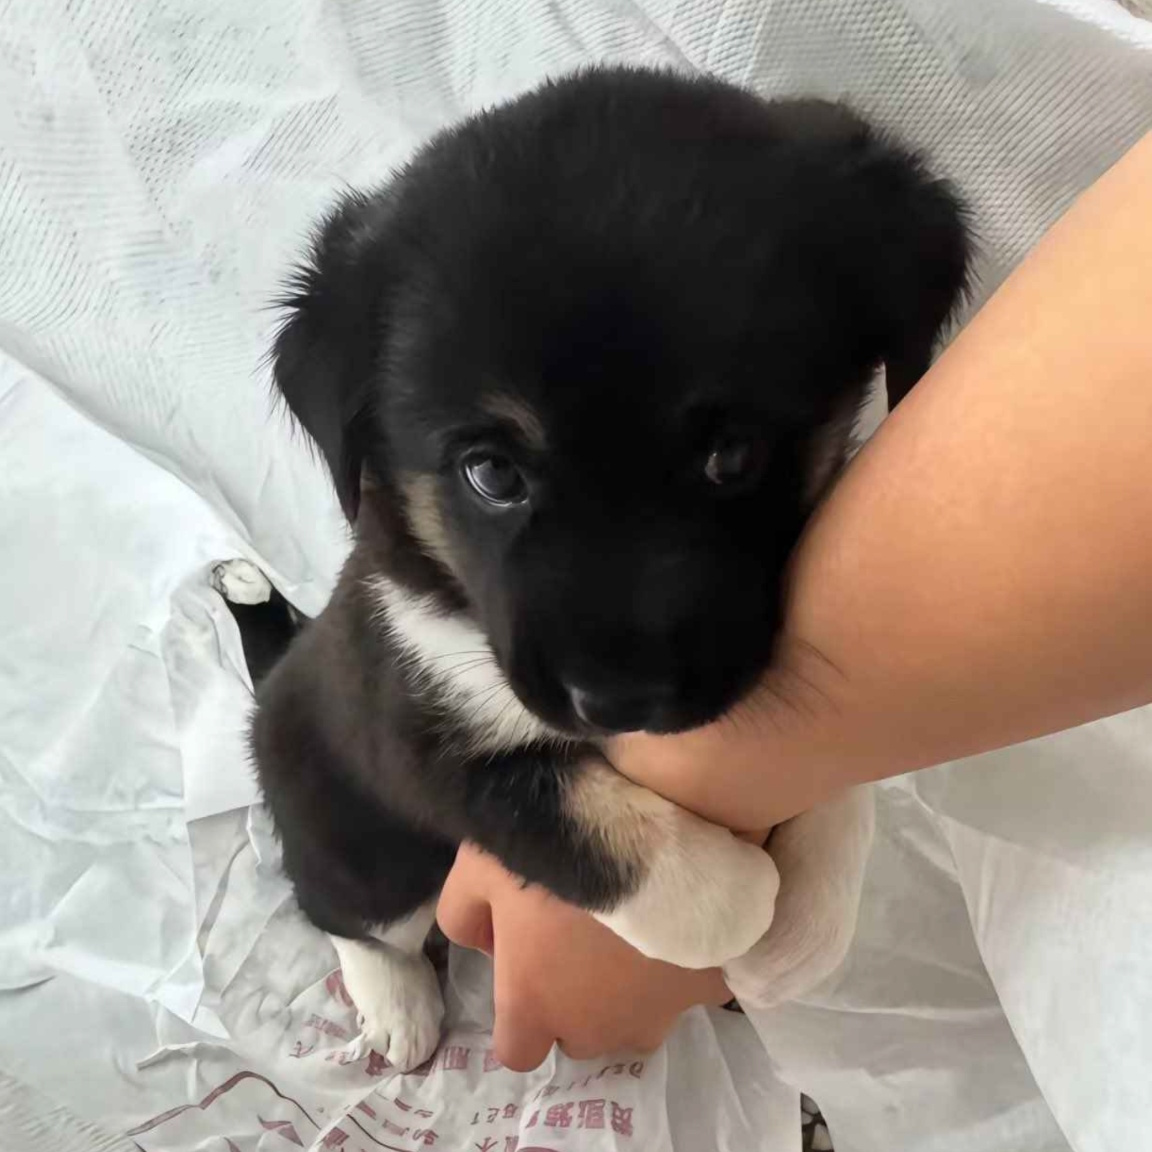
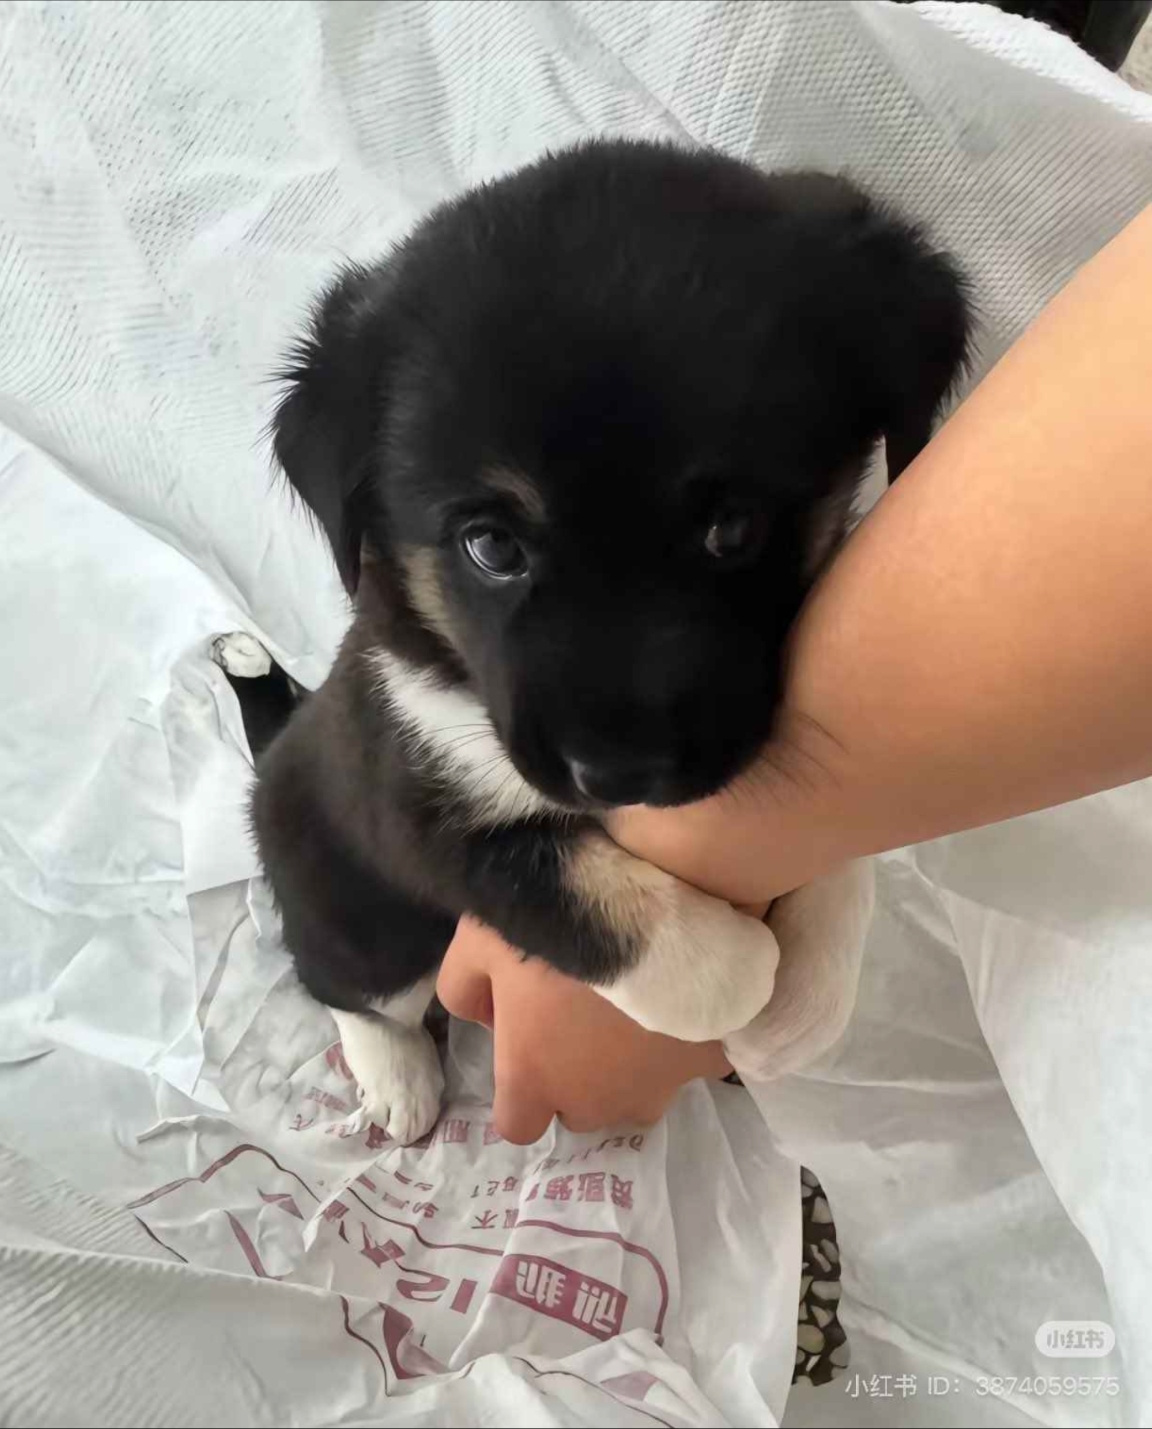
feat: optimisations

diff --git a/mcpixel-lib/src/smoothness.rs b/mcpixel-lib/src/smoothness.rs
@@ -2,32 +2,25 @@ use crate::lab;
 use crate::proto::Texture;
 use image::RgbImage;
 use std::cmp::Ordering;
+use std::collections::HashMap;
 
 pub(crate) fn penalty(image: &RgbImage, stats: &[Texture], target_penalty: f32) -> f32 {
-    // compute per-pixel closest block distances
-    let mut ratios = Vec::new();
-
+    // collapse repeated colours first; preprocessing quantizes colours so duplicates are common.
+    let mut counts = HashMap::<[u8; 3], usize>::new();
     for pixel in image.pixels() {
-        let target = lab::from_rgb(pixel.0);
+        *counts.entry(pixel.0).or_insert(0) += 1;
+    }
+
+    // compute per-colour closest block distance and keep multiplicity for weighted median
+    let mut ratios = Vec::with_capacity(counts.len());
+
+    for (rgb, count) in counts {
+        let target = lab::from_rgb(rgb);
         let mut min_dist = f32::MAX;
         let mut smoothness = 0f32;
 
         for block in stats {
-            let score = {
-                let mut total_distance = 0f32;
-                let mut total_weight = 0f32;
-
-                for (c, w) in block.colours.iter().zip(&block.weights) {
-                    total_distance += lab::distance(target, [c.l, c.a, c.b]) * w;
-                    total_weight += w;
-                }
-
-                if total_weight < f32::EPSILON {
-                    f32::MAX
-                } else {
-                    total_distance / total_weight
-                }
-            };
+            let score = block.score(target, 0.);
 
             if score < min_dist {
                 min_dist = score;
@@ -37,13 +30,26 @@ pub(crate) fn penalty(image: &RgbImage, stats: &[Texture], target_penalty: f32) 
 
         // ignore zero smoothness
         if smoothness > 0. {
-            ratios.push(min_dist / smoothness);
+            ratios.push((min_dist / smoothness, count));
         }
     }
 
-    // compute median ratio
-    ratios.sort_by(|a, b| a.partial_cmp(b).unwrap_or(Ordering::Equal));
-    let median_ratio = ratios[ratios.len() / 2];
+    if ratios.is_empty() {
+        return 0.;
+    }
+
+    // compute weighted median ratio to preserve per-pixel behaviour after collapsing duplicates
+    ratios.sort_by(|a, b| a.0.partial_cmp(&b.0).unwrap_or(Ordering::Equal));
+    let total: usize = ratios.iter().map(|(_, count)| *count).sum();
+    let mid = total / 2;
+    let mut running = 0usize;
+    let median_ratio = ratios
+        .into_iter()
+        .find_map(|(ratio, count)| {
+            running += count;
+            (running > mid).then_some(ratio)
+        })
+        .unwrap_or(0.);
 
     // compute smoothness penalty
     median_ratio * target_penalty / (1. - target_penalty)

diff --git a/mcpixel-lib/src/lib.rs b/mcpixel-lib/src/lib.rs
@@ -63,13 +63,12 @@ impl PixelArt {
         // preprocess
         let image = preprocess::run(image, &config);
         let (width, height) = image.dimensions();
+        let (ids, textures) = version.into_parts();
 
         // compute smoothness penalty
-        let textures = version
-            .textures()
-            .iter()
+        let textures = textures
+            .into_iter()
             .filter(|t| t.overlay.is_some() == config.overlay)
-            .cloned()
             .collect::<Vec<_>>();
         let smoothness_penalty = smoothness::penalty(&image, &textures, config.smoothness_penalty);
 
@@ -81,7 +80,7 @@ impl PixelArt {
 
         // convert to blocks
         let tree = texture::build_tree(&textures);
-        let mut cache = HashMap::<[u8; 3], usize>::new();
+        let mut cache = HashMap::<[u8; 3], usize>::with_capacity(config.palette_size as usize);
 
         let blocks: Vec<Vec<_>> = (0..height)
             .map(|y| {
@@ -105,10 +104,7 @@ impl PixelArt {
             })
             .collect();
 
-        Ok(Self {
-            ids: version.ids(),
-            blocks,
-        })
+        Ok(Self { ids, blocks })
     }
 
     /// The size of the pixel art in blocks (width, height).
@@ -133,7 +129,7 @@ impl PixelArt {
                 if let Some(overlay) = &overlay {
                     *materials
                         .entry(self.ids[overlay.i as usize].as_str())
-                        .or_insert(0) += 1;
+                        .or_insert(0) += 2; // 2 layers
                 }
             }
         }

diff --git a/mcpixel-lib/src/texture.rs b/mcpixel-lib/src/texture.rs
@@ -5,12 +5,12 @@ use std::cmp::Ordering;
 use std::num::NonZero;
 
 impl Texture {
-    fn score(&self, target_lab: [f32; 3], smoothness_penalty: f32) -> f32 {
+    pub(crate) fn score(&self, target: [f32; 3], smoothness_penalty: f32) -> f32 {
         let mut total_distance = 0f32;
         let mut total_weight = 0f32;
 
         for (c, w) in self.colours.iter().zip(&self.weights) {
-            total_distance += lab::distance(target_lab, [c.l, c.a, c.b]) * w;
+            total_distance += lab::distance(target, [c.l, c.a, c.b]) * w;
             total_weight += w;
         }
 

diff --git a/mcpixel-lib/src/version.rs b/mcpixel-lib/src/version.rs
@@ -10,11 +10,7 @@ impl Version {
         Ok(Self(version))
     }
 
-    pub(crate) fn ids(&self) -> Vec<String> {
-        self.0.ids.clone()
-    }
-
-    pub(crate) fn textures(&self) -> &Vec<Texture> {
-        &self.0.textures
+    pub(crate) fn into_parts(self) -> (Vec<String>, Vec<Texture>) {
+        (self.0.ids, self.0.textures)
     }
 }
